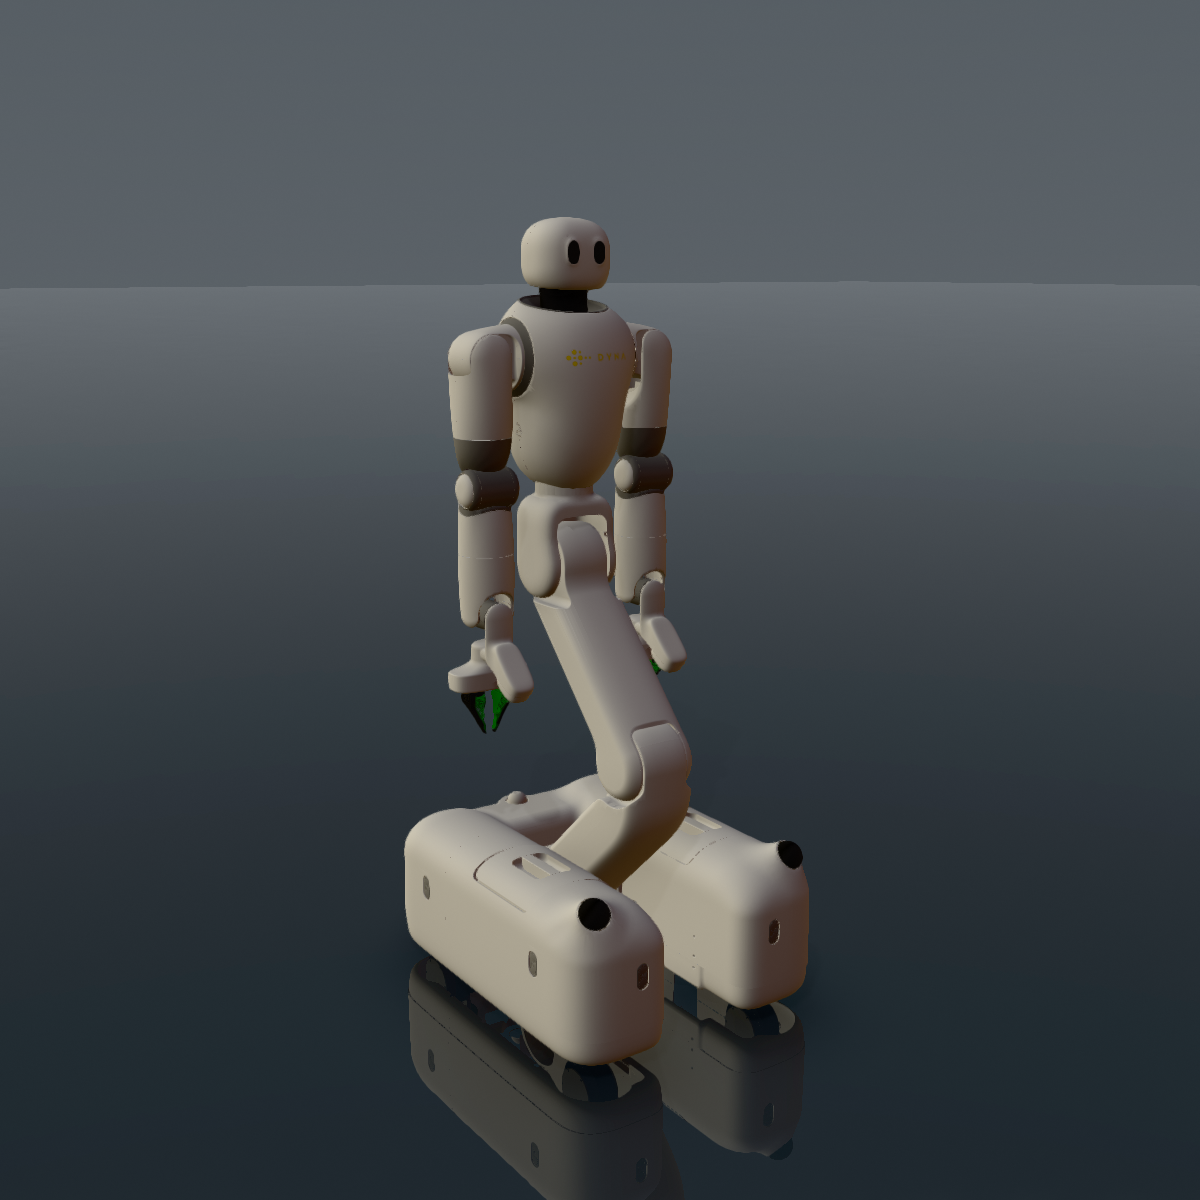
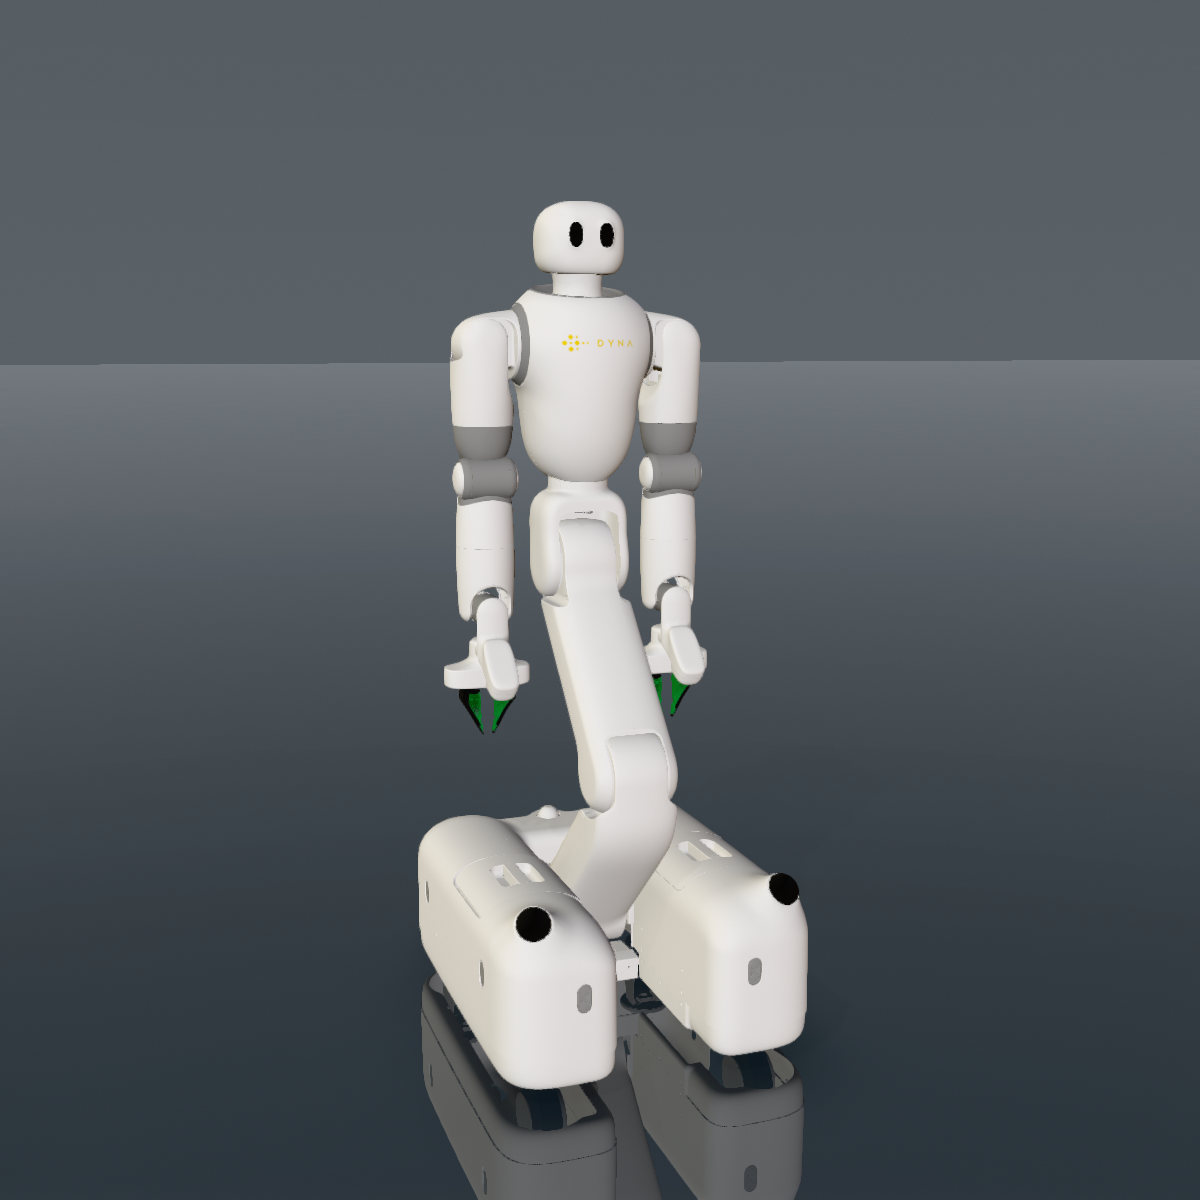
Improve Taku hero lighting and match neck shell color

Changed region(s): [[0.3392, 0.1542, 0.6783, 1.0]]

diff --git a/dyna_taku/README.md b/dyna_taku/README.md
@@ -21,8 +21,9 @@ Based on the existing MJCF model in
 [dyna-robotics/dyna_robot_description at `afa6168`](https://github.com/dyna-robotics/dyna_robot_description/tree/afa6168/dyna_taku).
 This package adapts that MJCF directly; it does not perform a new URDF conversion.
 
-- Retain the source visual meshes, materials, physical link transforms, masses,
-  inertias, joint limits and actuator force limits.
+- Retain the source visual meshes, physical link transforms, masses, inertias,
+  joint limits and actuator force limits. Match the neck shell material to the
+  white head shell; other source materials are retained.
 - Retain the source segmented DynaClaw collision meshes and finger coupling.
 - Replace the solid base hull with separate convex hulls of the left, right and
   rear exterior shells plus the rear lidar, preserving the central U-shaped gap.
